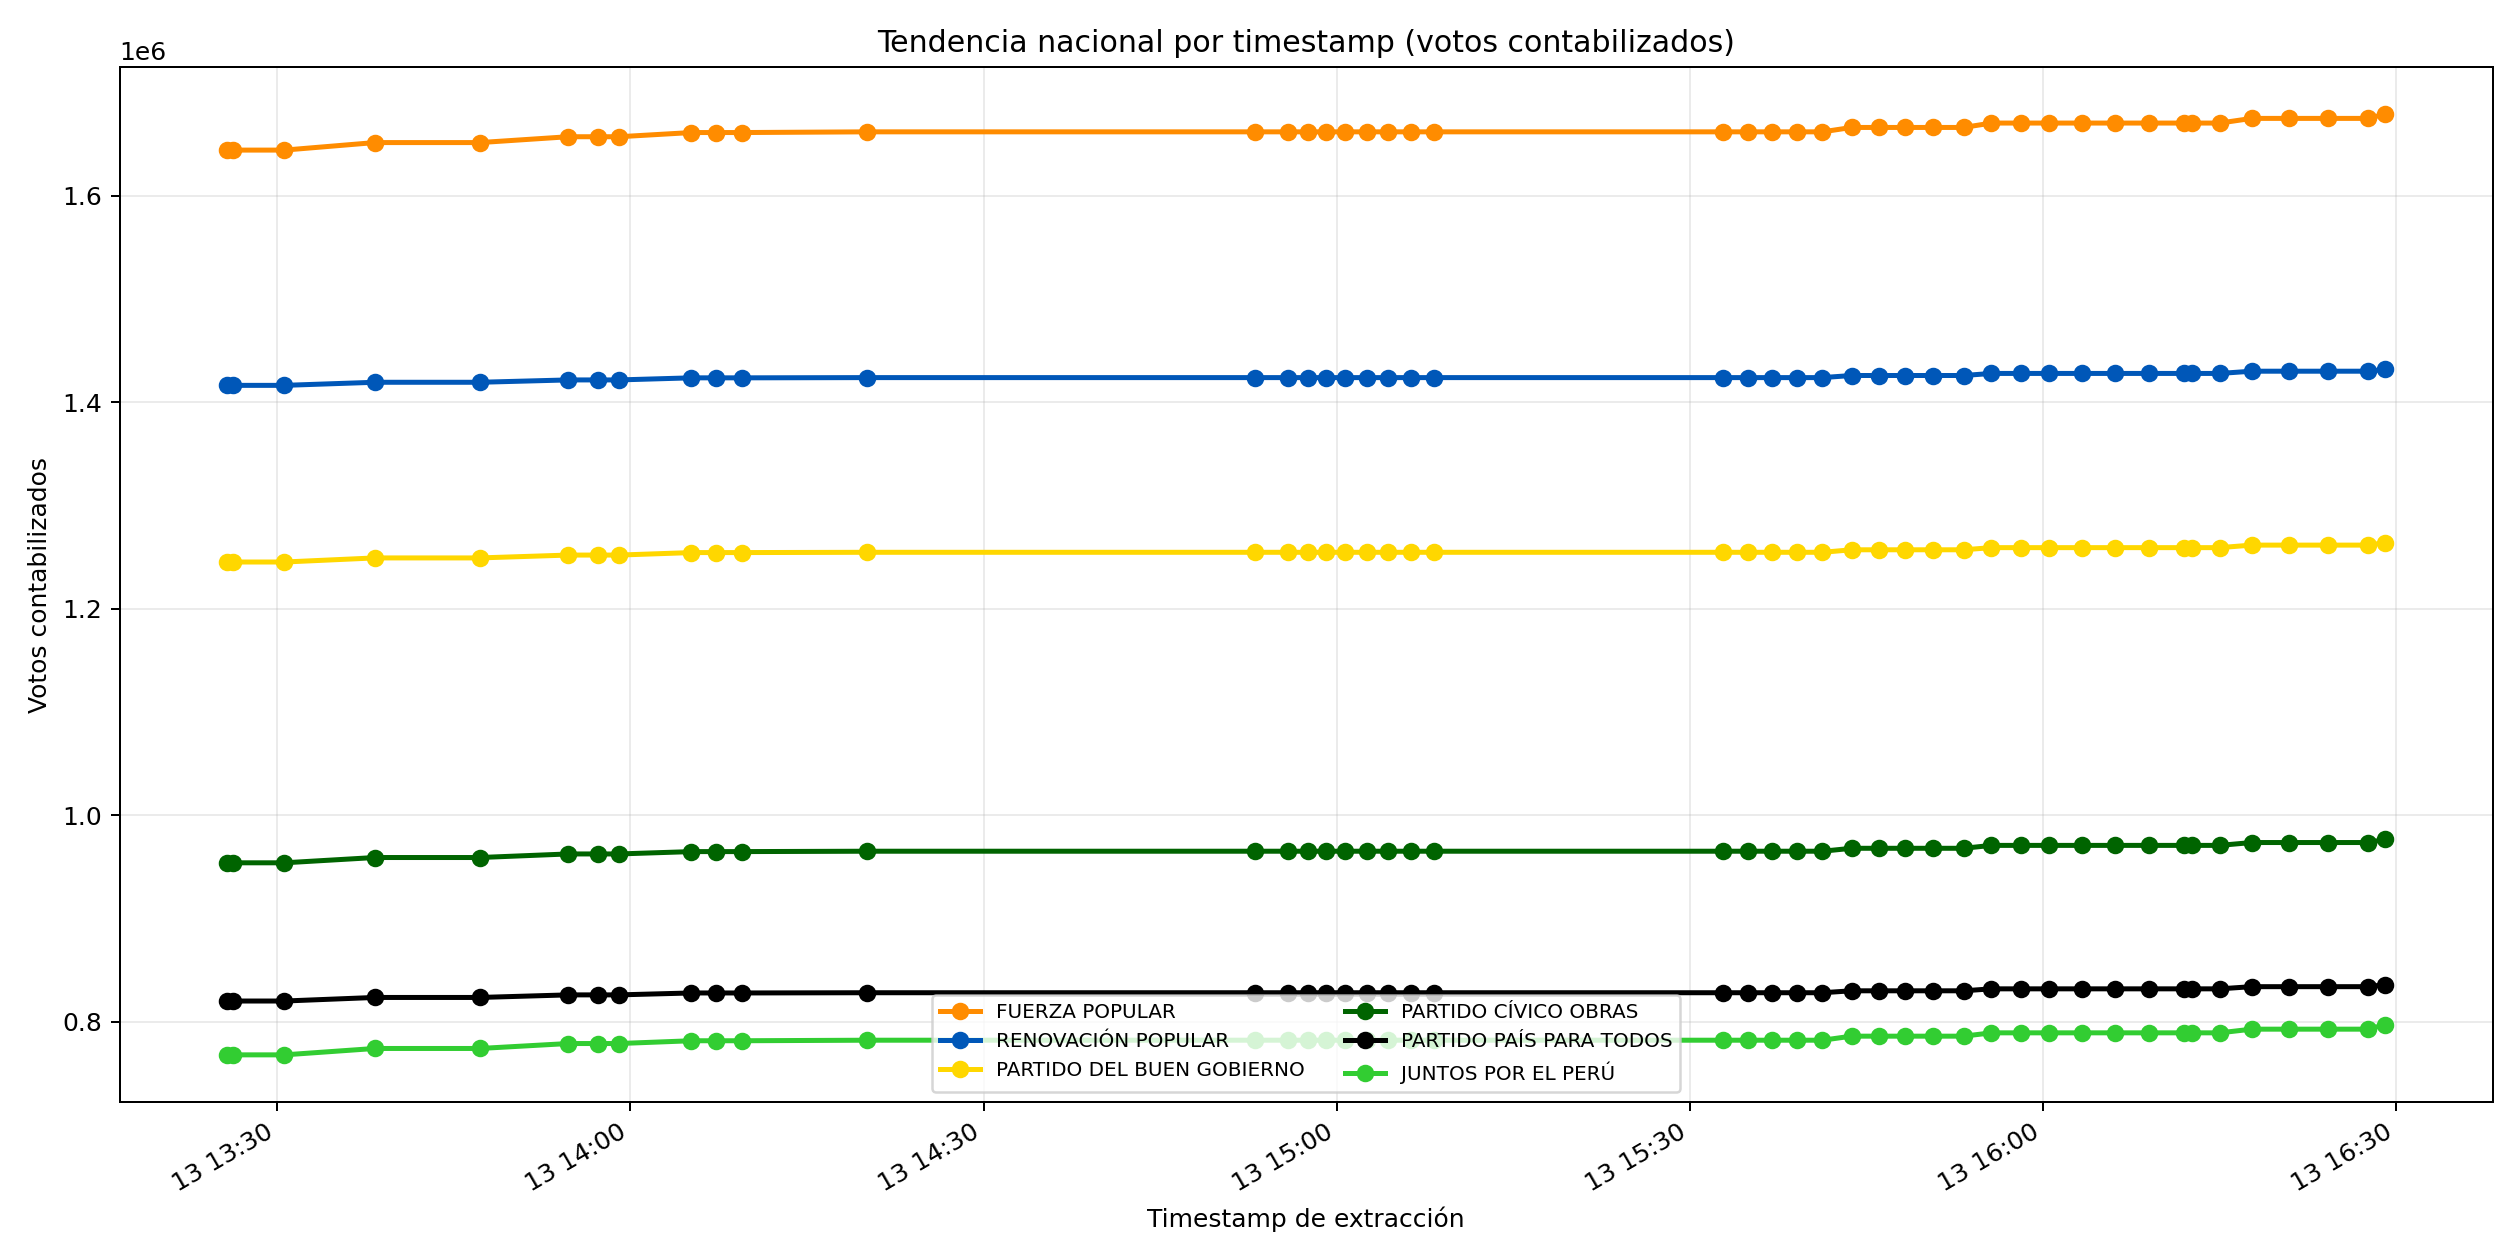
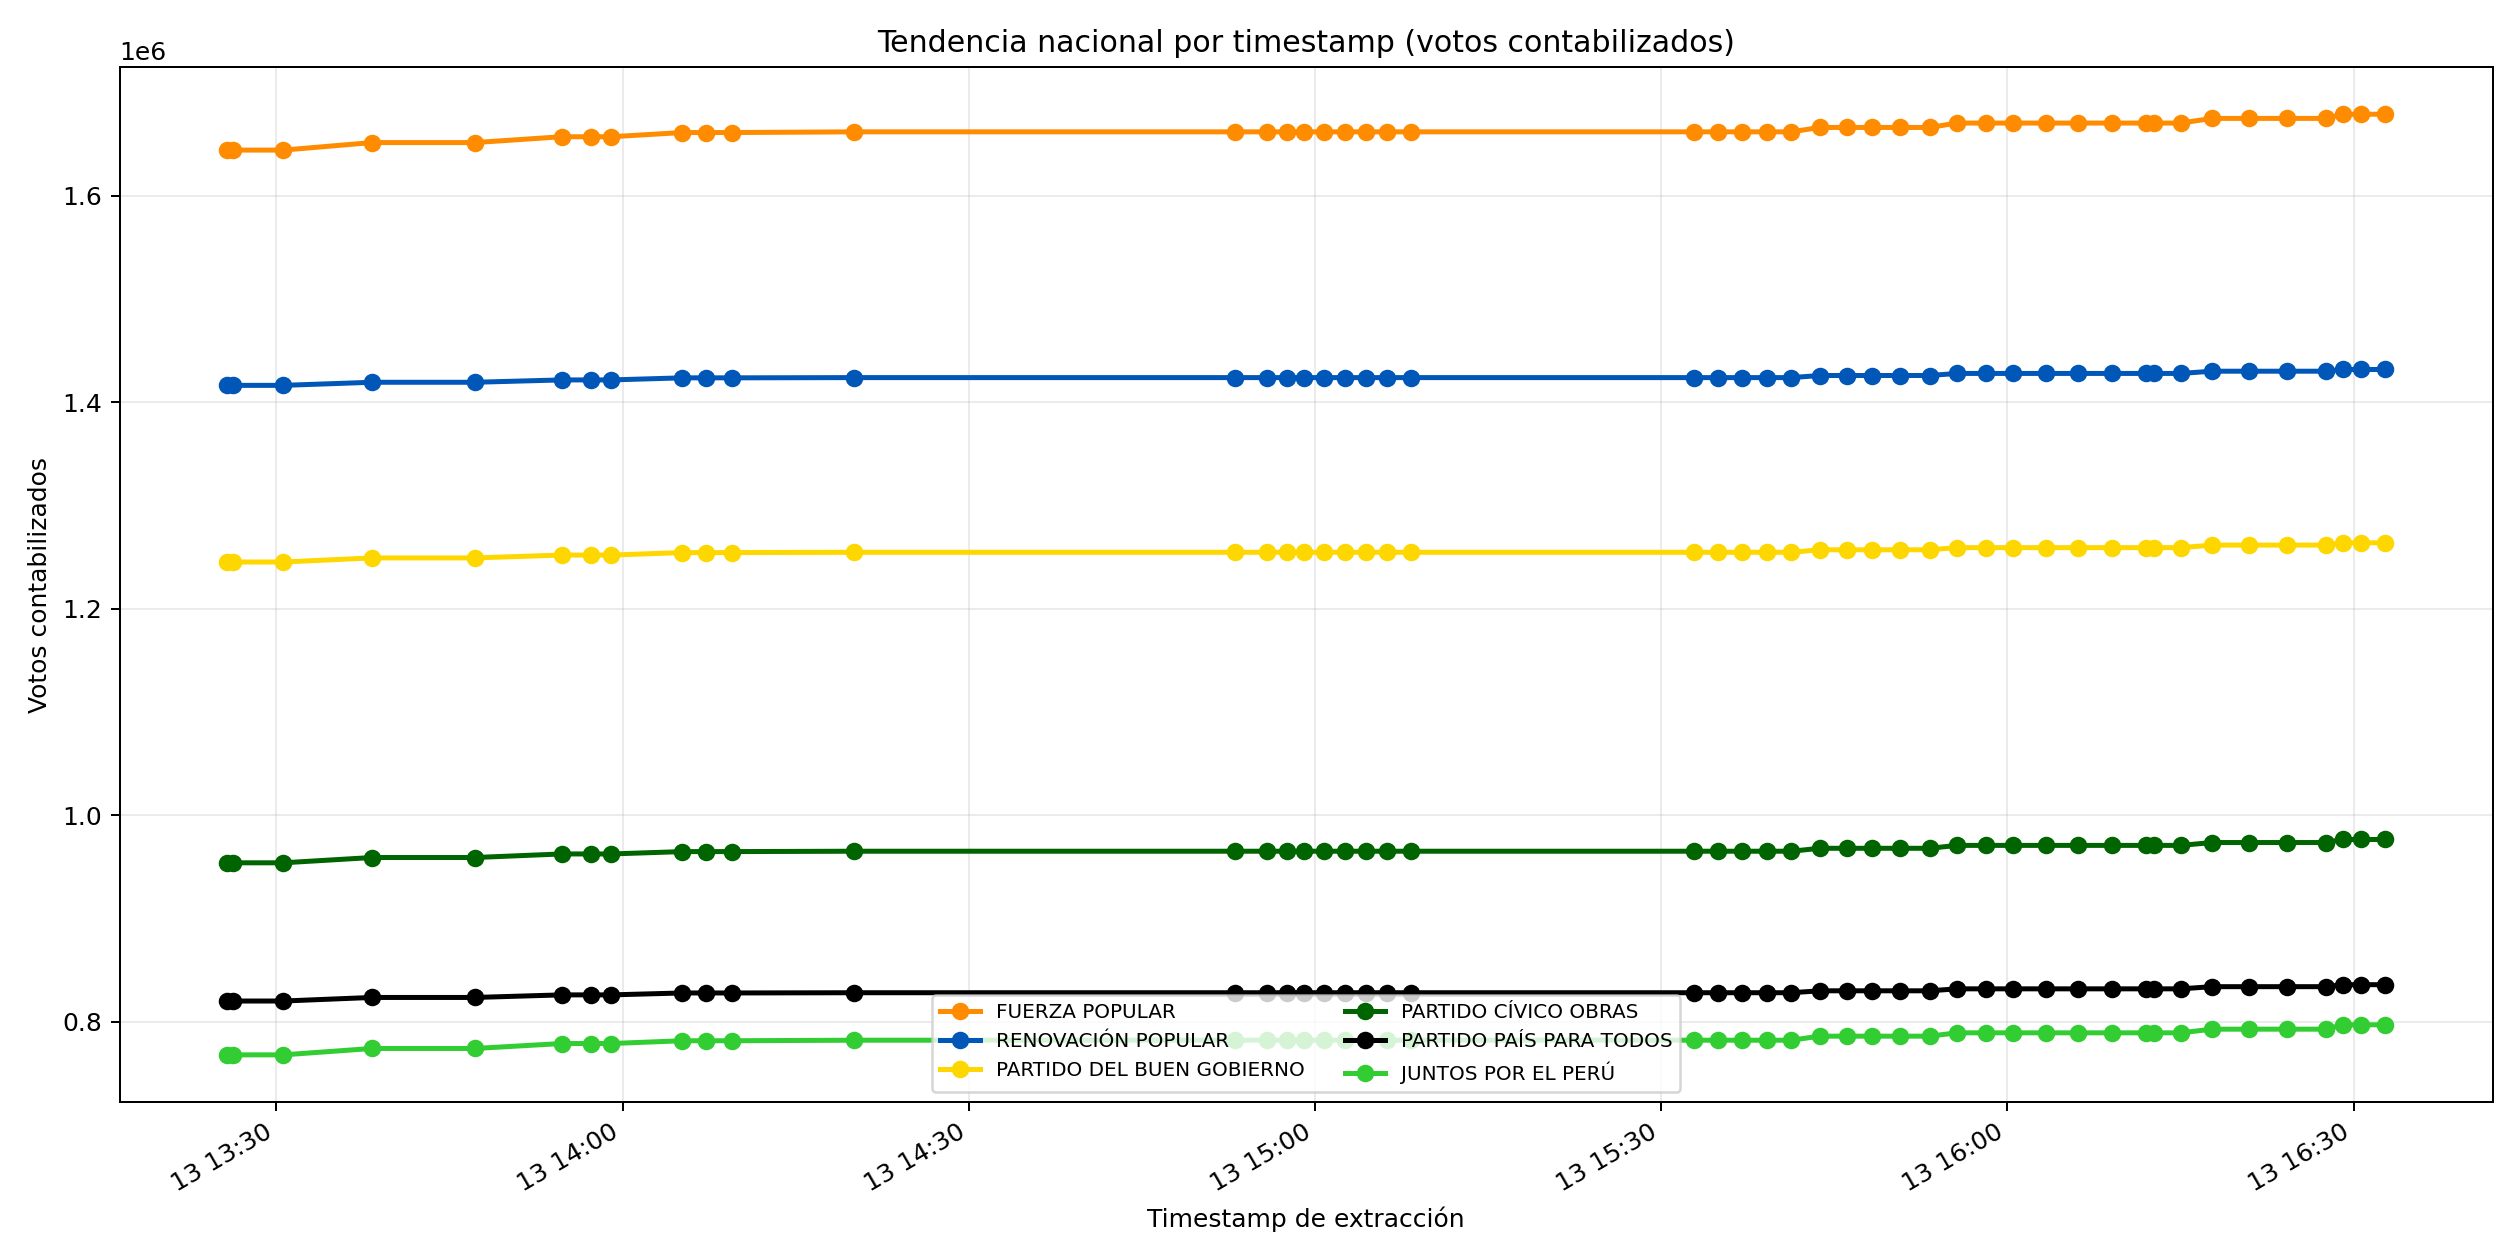
partidos

diff --git a/outputs/projection_summary.md b/outputs/projection_summary.md
@@ -1,8 +1,8 @@
 # Proyección Electoral ONPE
 
 - Fuente: https://resultadoelectoral.onpe.gob.pe/main/presidenciales
-- Extraído (UTC): 2026-04-13T16:29:03.898279+00:00
-- Proyectado (UTC): 2026-04-13T16:29:03.968639+00:00
+- Extraído (UTC): 2026-04-13T16:32:43.406460+00:00
+- Proyectado (UTC): 2026-04-13T16:32:43.443202+00:00
 - Actas contabilizadas global: 54.179%
 - Margen escenarios: 5.000%
 
